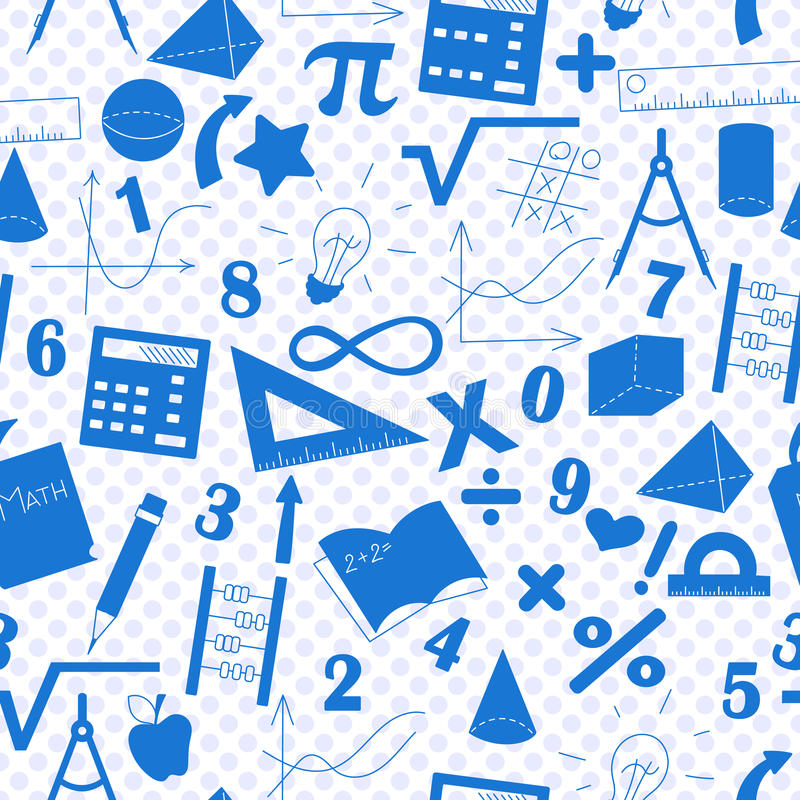
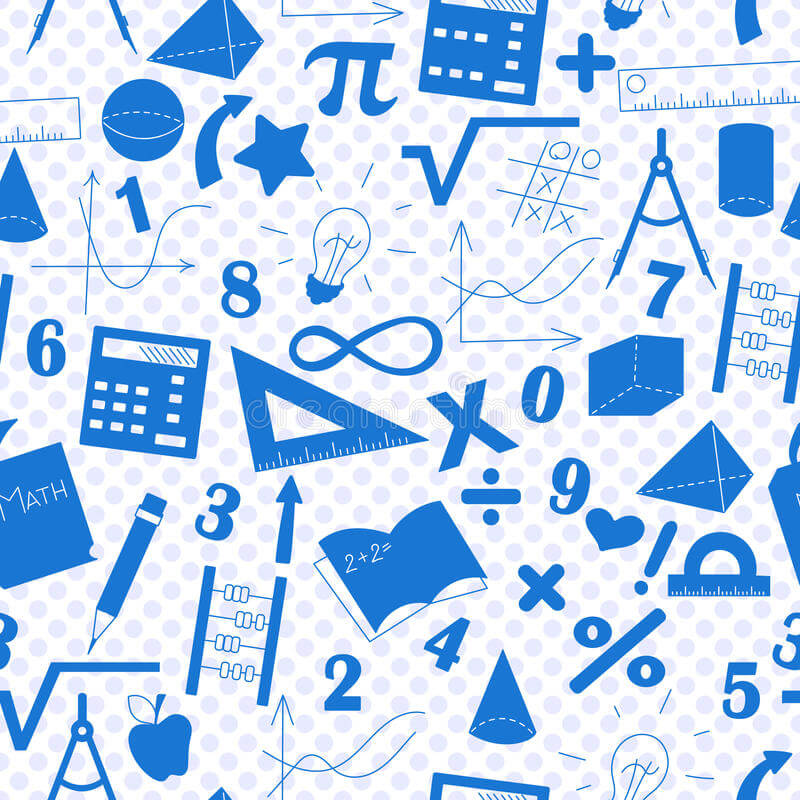
update * `random` 方法代替 `rand` 方法 * 增加 `math.min` 和 `math.max` * 压缩 demo 页面图片大小

Changed region(s): [[0.1875, 0.4375, 0.25, 0.4688], [0.625, 0.0, 0.6562, 0.0312]]

diff --git a/index.html b/index.html
@@ -40,7 +40,7 @@
         <h2>Function list</h2>
         <ul class="renderList">
           <li v-for="(n, i) in renderList" :key="i">
-            <h3>{{ n.title }}</h3>
+            <h3>{{ i + 1 }}. {{ n.title }}</h3>
             <pre class="demo javascript"><code v-html="code(n.demo)"></code></pre>
           </li>
         </ul>
@@ -151,9 +151,21 @@ new Vue({
         {
           title: 'Random Numbers with Range.',
           demo: [
-            { label: `math.rand()`, value: math.rand() },
-            { label: `math.rand(50, 100)`, value: math.rand(50, 100) },
-            { label: `math.rand(50, 100, 2)`, value: math.rand(50, 100, 2) }
+            { label: `math.random()`, value: math.random() },
+            { label: `math.random(2)`, value: math.random(2) },
+            { label: `math.random(50, 100)`, value: math.random(50, 100) },
+            { label: `math.random(50, 100, 2)`, value: math.random(50, 100, 2) }
+          ]
+        },
+        {
+          title: '"math.min" and "math.max" support array parameters.',
+          demo: [
+            { label: `Math.min([1, 2, 3])`, value: Math.min([1, 2, 3]) },
+            { label: `math.min([1, 2, 3])`, value: math.min([1, 2, 3]) },
+            { label: `math.min([1, 2, 3], 4, [5])`, value: math.min([1, 2, 3], 4, [5]) },
+            { label: `Math.max([1, 2, 3])`, value: Math.max([1, 2, 3]) },
+            { label: `math.max([1, 2, 3])`, value: math.max([1, 2, 3]) },
+            { label: `math.max([1, 2, 3], 4, [5])`, value: math.max([1, 2, 3], 4, [5]) }
           ]
         },
         {
@@ -188,6 +200,15 @@ new Vue({
             { label: `math.range(50, 100).in(10)`, value: math.range(50, 100).in(10) },
             { label: `math.range(50, 100).in(110)`, value: math.range(50, 100).in(110) },
             { label: `math.range(50, 100).in(50)`, value: math.range(50, 100).in(50) }
+          ]
+        },
+        {
+          title: 'Returns a random number of specified ranges. Same as "math.random(50, 100, 2)"',
+          demo: [
+            { label: `math.range().rand()`, value: math.range().rand() },
+            { label: `math.range().rand(2)`, value: math.range().rand(2) },
+            { label: `math.range(50, 100).rand()`, value: math.range(50, 100).rand() },
+            { label: `math.range(50, 100).rand(2)`, value: math.range(50, 100).rand(2) }
           ]
         },
         {

diff --git a/math.js b/math.js
@@ -1,3 +1,4 @@
+'use strict'
 /* global define */
 
 // --------------------------------------
@@ -39,10 +40,42 @@ math.hex = function (num, from = 16, to = 10) {
   return parseInt(num, from).toString(to)
 }
 
-// Random Numbers with Range
+// Random Numbers with Range (Will be abandoned)
 math.rand = function (from = 0, to = 1, decimal = 17) {
   let dVal = this.abs(to - from)
-  return +(this.random() * dVal + this.min(from, to)).toFixed(decimal)
+  return +(Math.random() * dVal + this.min(from, to)).toFixed(decimal)
+}
+
+// Random Numbers with Range (random will replace rand)
+math.random = function (...arg) {
+  arg = this.arg(...arg)
+
+  if (!arg.length) {
+    arg = [0, 1, 17]
+  } else if (arg.length === 1) {
+    arg = [0, 1].concat(arg)
+  } else if (arg.length === 2) {
+    arg = arg.concat(17)
+  }
+
+  let from = arg[0]
+  let to = arg[1]
+  let decimal = arg[2]
+  let dVal = this.abs(to - from)
+
+  return +(Math.random() * dVal + this.min(from, to)).toFixed(decimal)
+}
+
+// math.min support array parameters
+math.min = function (...arg) {
+  arg = this.arg(...arg)
+  return Math.min(...arg)
+}
+
+// math.max support array parameters
+math.max = function (...arg) {
+  arg = this.arg(...arg)
+  return Math.max(...arg)
 }
 
 // Round up the number of reserved digits
@@ -101,6 +134,12 @@ math.Range.prototype.in = function (num) {
   let s = this.r.slice(0, 1)[0]
   let e = this.r.slice(-1)[0]
   return Math.max(s, Math.min(num, e))
+}
+
+math.Range.prototype.rand = function (num = 17) {
+  let s = this.r.slice(0, 1)[0]
+  let e = this.r.slice(-1)[0]
+  return math.random(s, e, num)
 }
 
 // --------------------------------------

diff --git a/static/style.css b/static/style.css
@@ -18,15 +18,10 @@
   padding: 40px 15px;
   text-align: center;
   position: relative;
-  /* background-color: #fff; */
 }
 
-/* .topper > * {
-  position: relative;
-} */
-
 .topper .bg {
-  background-image: url('./img/math_bg.jpg');
+  background-image: url('./img/math_bg_s.jpg');
   background-size: 200px 200px;
   opacity: 0.2;
   width: 100%;
@@ -48,6 +43,11 @@ ul {
   list-style-type: none;
   padding: 0 20px;
   margin: 0;
+}
+
+.renderList li,
+.howToUse li {
+  margin-bottom: 30px;
 }
 
 pre {
